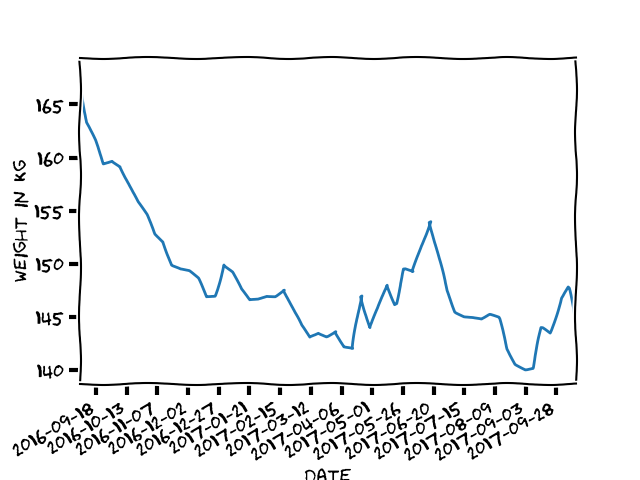
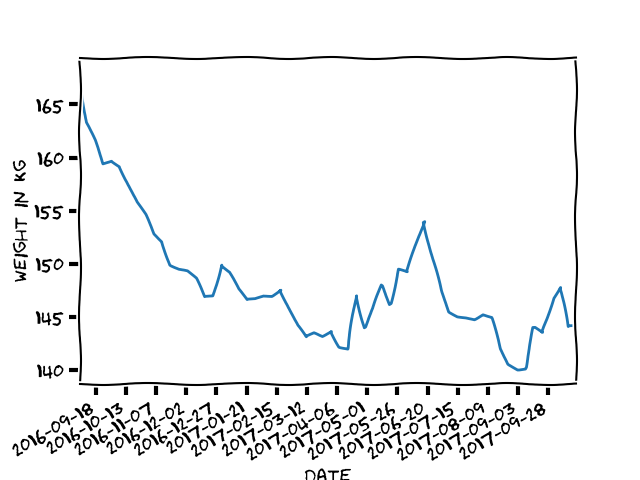
Week 43 update

diff --git a/index.html b/index.html
@@ -30,6 +30,14 @@
   </thead>
   <tbody>
     <tr>
+      <th>2017-10-21</th>
+      <td>144.2</td>
+      <td>0.1</td>
+      <td>-23.8</td>
+      <td>43.1</td>
+      <td>1.7</td>
+    </tr>
+    <tr>
       <th>2017-10-14</th>
       <td>144.1</td>
       <td>-3.7</td>
